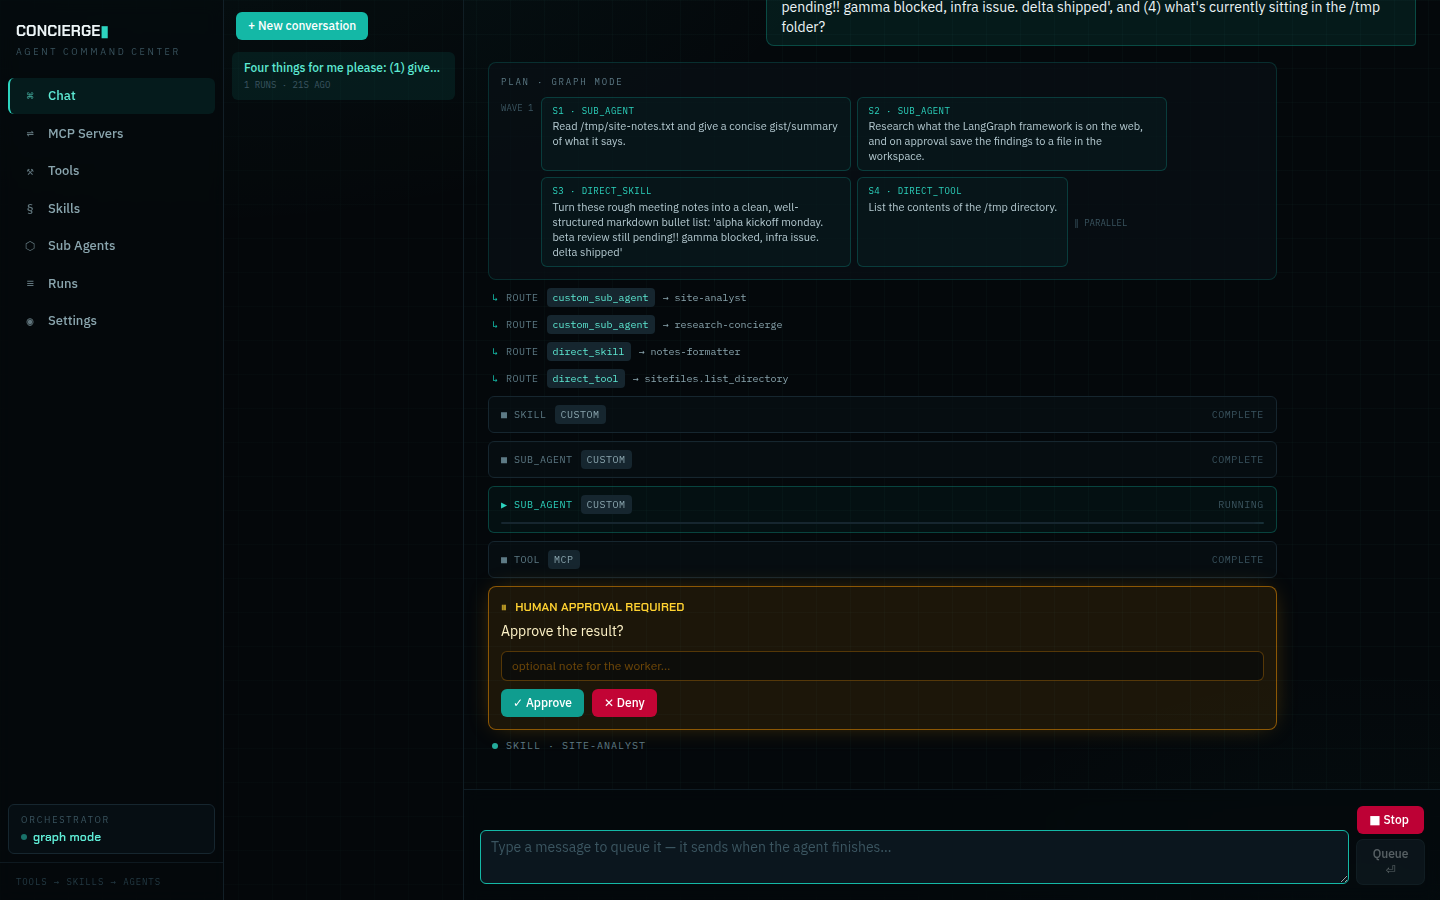
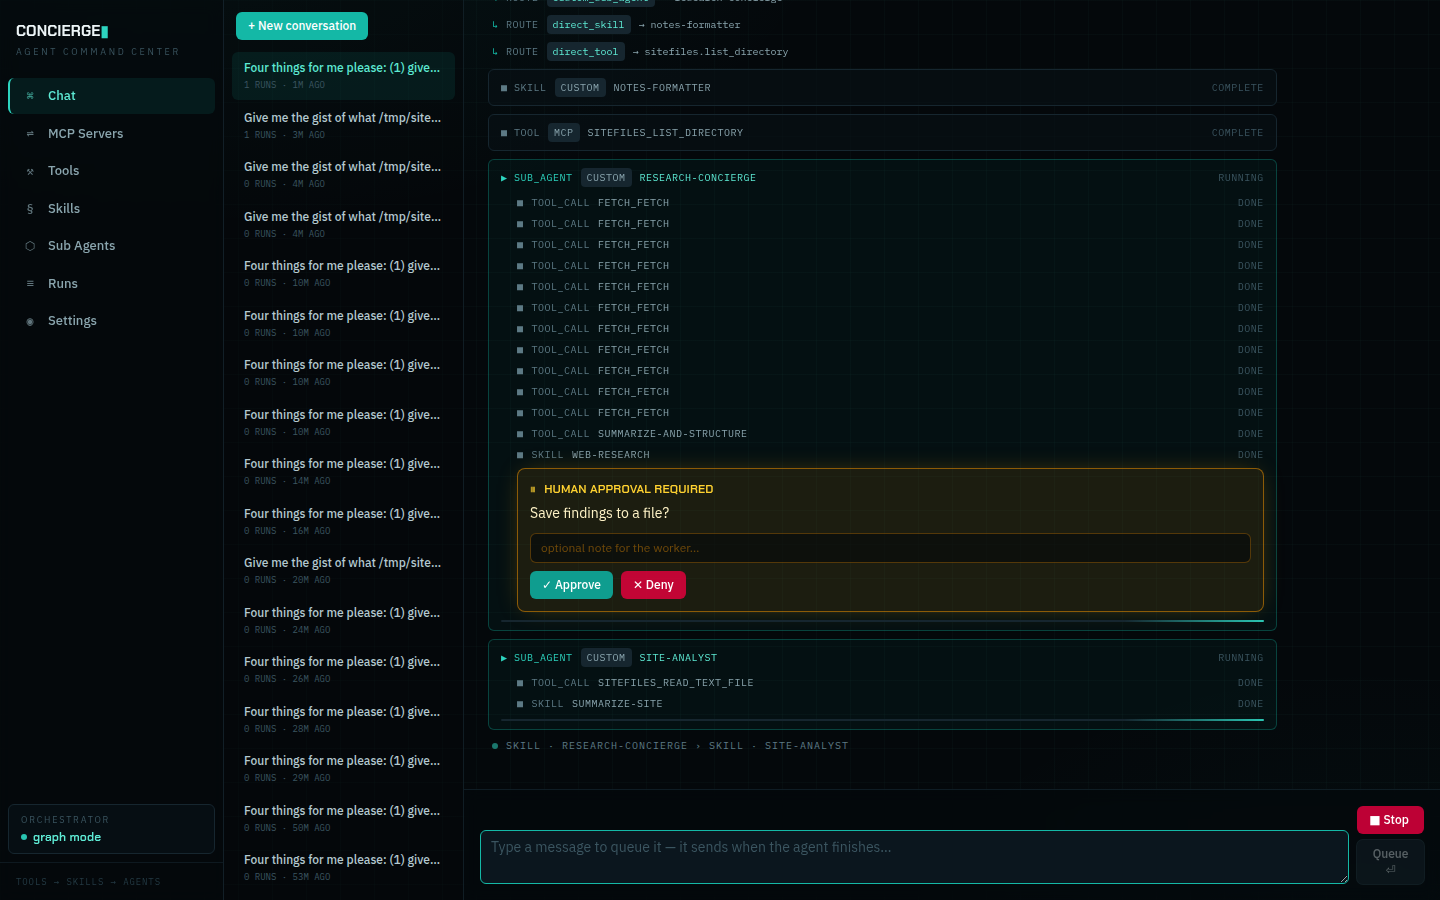
docs(acceptance): refresh gate/deny evidence on grouped + themed build
All seven HITL gate and deny screenshots re-captured from re-runs of
their original scenarios: rails now show the hierarchical grouping
(children nested under their sub-agent dispatch) and the per-theme
gate card. 08's gate-2 shot removed — gate count is model-decided and
the refresh runs for T3 gated once; stages 07 and 09 retain two-gate
pairs.

Claude-Session: https://claude.ai/code/session_01HZp9NtKPxvkd279oJnFx37

diff --git a/docs/acceptance/README.md b/docs/acceptance/README.md
@@ -77,6 +77,28 @@ Same registries, same ladder policy, same recording labels; different orchestrat
 
 ## Post-campaign refresh (user-directed)
 
+### Second refresh — hierarchical grouping + themed gate card
+
+After the live-run view gained hierarchical grouping (each sub-agent rail
+now nests its own skill runs, tool calls, and approval card via
+`parent_step_id`/`step_id` lineage) and the HITL card was retinted per
+brand theme (monochrome for openai, Google blue for google, warm amber for
+anthropic/default), every screenshot showing a gate moment was re-captured
+through the UI from re-runs of the same scenarios on the new build:
+
+- `06-trial-graph-thinking-on/05-t1-hitl-gate-1.png`
+- `07-trial-graph-thinking-off/04-t2-hitl-gate-1.png` + `05-t2-hitl-gate-2.png`
+- `08-trial-agentic-thinking-on/05-t3-hitl-gate-1.png`
+- `09-trial-agentic-thinking-off/04-t4-hitl-gate-1.png` + `05-t4-hitl-gate-2.png`
+- `11-hitl-deny-and-queue/01-deny-card.png`
+
+`08-trial-agentic-thinking-on/06-t3-hitl-gate-2.png` was removed: how many
+times a worker asks for approval is decided by the model per run, and the
+refresh runs for T3 gated once. The multi-gate story is still evidenced by
+stage 07 and stage 09 (both retain a gate-1 + gate-2 pair).
+
+### First refresh
+
 Two screenshots were re-captured manually through the UI on build `d9bbe98`
 after chat-presentation review; the rest of the set is the original single
 pass:
